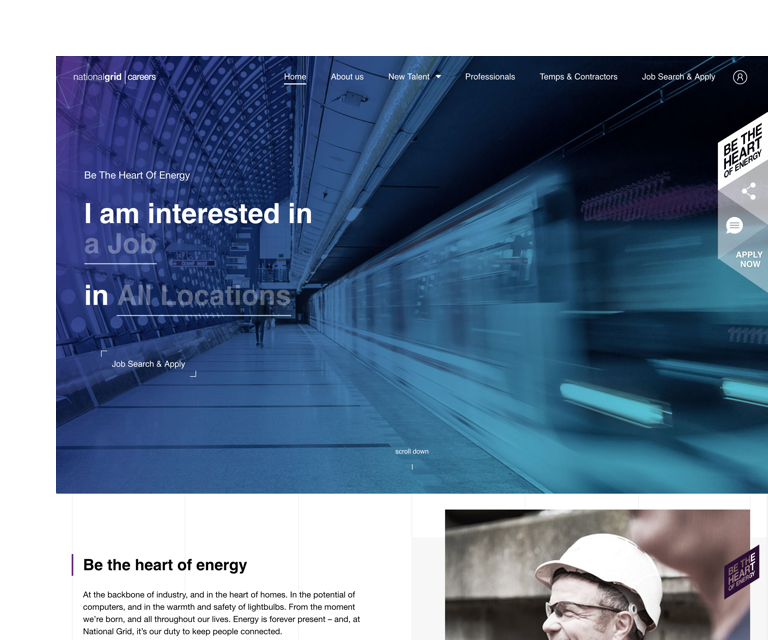
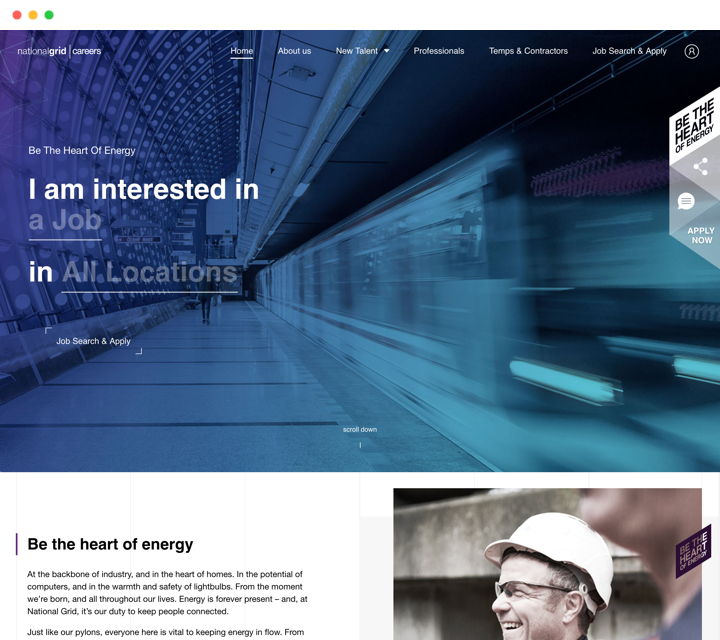
Change homepage images

diff --git a/index.html b/index.html
@@ -35,7 +35,7 @@
           </div>
         </div>
         <div class="pic">
-          <img src="./resources/images/btn-img-mcdonalds@2x.png" style="height:320px; width: 384px;" alt="McDonald's franchisee website" />
+          <img src="./resources/images/btn-img-mcdonalds@2x.png" style="height:320px; width: 360px;" alt="McDonald's franchisee website" />
         </div>
       </article>
 
@@ -47,7 +47,7 @@
           </div>
         </div>
         <div class="pic">
-          <img src="./resources/images/btn-img-allenovery@2x.png" style="height:320px; width: 384px;" alt="" />
+          <img src="./resources/images/btn-img-allenovery@2x.png" style="height:320px; width: 360px;" alt="" />
         </div>
       </article>
 
@@ -59,7 +59,7 @@
           </div>
         </div>
         <div class="pic">
-          <img src="./resources/images/btn-img-nationalgrid@2x.png" style="height:320px; width: 384px;" alt="" />
+          <img src="./resources/images/btn-img-nationalgrid@2x.png" style="height:320px; width: 360px;" alt="" />
         </div>
       </article>
 
@@ -71,7 +71,7 @@
           </div>
         </div>
         <div class="pic">
-          <img src="./resources/images/btn-img-theguardian@2x.png" style="height:320px; width: 384px;" alt="" />
+          <img src="./resources/images/btn-img-theguardian@2x.png" style="height:320px; width: 360px;" alt="" />
         </div>
       </article>
 
@@ -83,7 +83,7 @@
           </div>
         </div>
         <div class="pic">
-          <img src="./resources/images/btn-img-babyfriendly@2x.png" style="height:320px; width: 384px;" alt="" />
+          <img src="./resources/images/btn-img-babyfriendly@2x.png" style="height:320px; width: 364px;" alt="" />
         </div>
       </article>
 

diff --git a/resources/css/style.css b/resources/css/style.css
@@ -71,7 +71,7 @@ html {
 }
 
 .homepage h1 {
-  margin-top: -4rem;
+  margin-top: -4.5rem;
   font-size: 3.6rem;
   letter-spacing: ;
 }
@@ -79,13 +79,13 @@ html {
 .project {
   display: flex;
   margin: 0 30px 30px 30px;
-  padding: 50px 50px 0 50px;
+  padding: 70px 70px 0 50px;
 }
 
 .project h2 {
   font-size: 1.8rem;
   font-weight: normal;
-  letter-spacing: 0.1rem;
+  letter-spacing: 0.04rem;
 }
 
 .project h3 {
@@ -100,10 +100,6 @@ html {
   align-items: flex-end;
   width: 100%;
   padding-bottom: 50px;
-}
-
-.project .pic {
-  width: 384px;
 }
 
 .project .pic img {
@@ -131,6 +127,7 @@ html {
 .project.babyfriendly {
   background: #0DB69F;
   color: #fff;
+  padding-right: 68px;
 }
 
 
